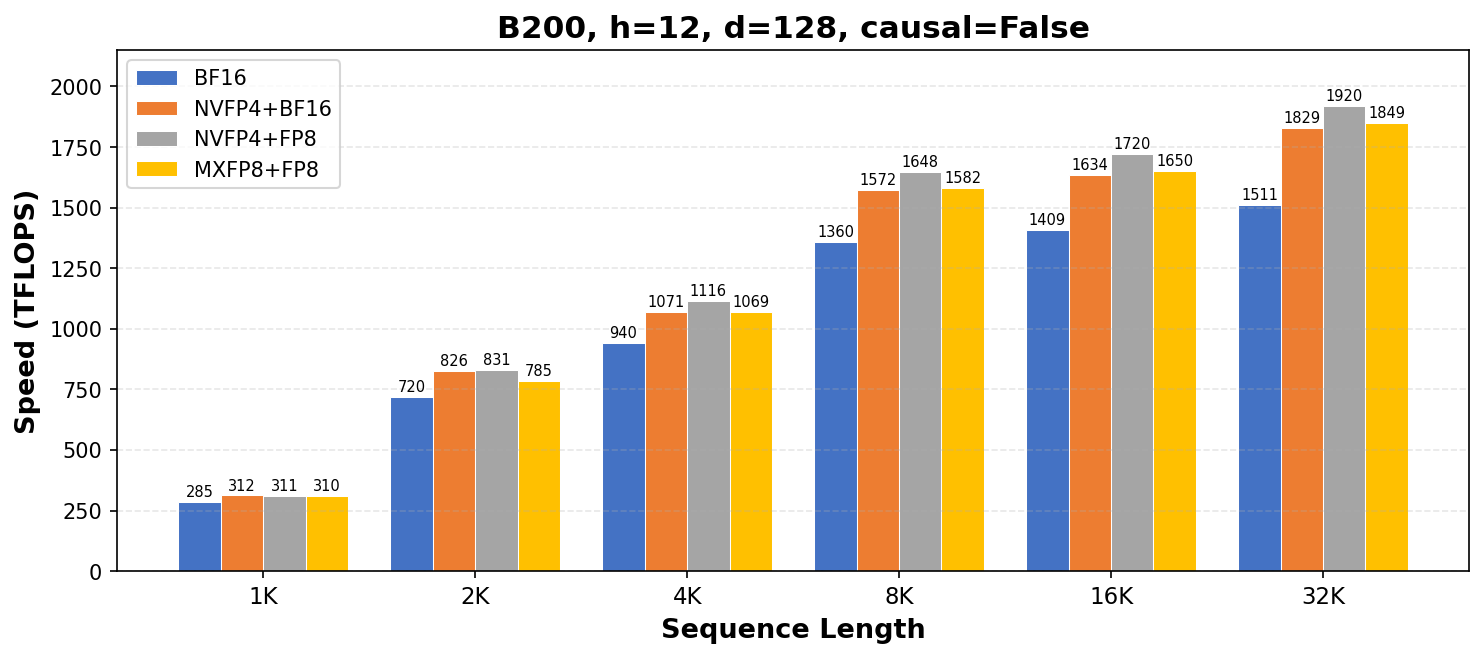
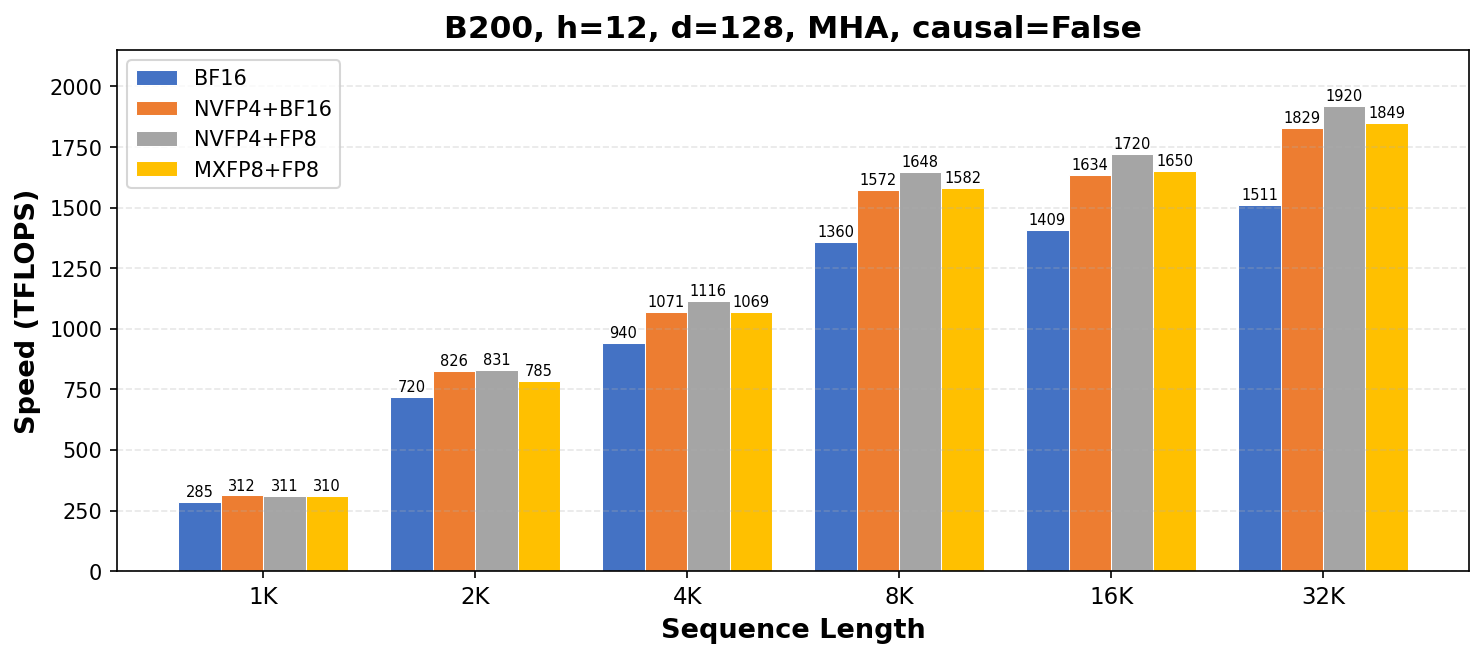
docs: add causal=True TFLOPS figures, add MHA to all titles
Split into 4 figures: h=32/h=12 × causal=False/True.
Causal shows FP4 roughly break-even with BF16 at large shapes.

Changed region(s): [[0.279, 0.0, 0.7749, 0.0608]]

diff --git a/flash_attn/cute/README.md b/flash_attn/cute/README.md
@@ -29,8 +29,10 @@ All values in TFLOPS. Peak: **NVFP4+FP8 2031 TF**, **MXFP8+FP8 1960 TF**.
 
 ### Sequence length sweep (B200, batch=1, dedicated GPU)
 
-![B200 h=32 TFLOPS](figures/b200_tflops_h32.png)
-![B200 h=12 TFLOPS](figures/b200_tflops_h12.png)
+![B200 h=32 non-causal](figures/b200_tflops_h32.png)
+![B200 h=12 non-causal](figures/b200_tflops_h12.png)
+![B200 h=32 causal](figures/b200_tflops_h32_causal.png)
+![B200 h=12 causal](figures/b200_tflops_h12_causal.png)
 
 **h=32, d=128 (MHA)**
 
